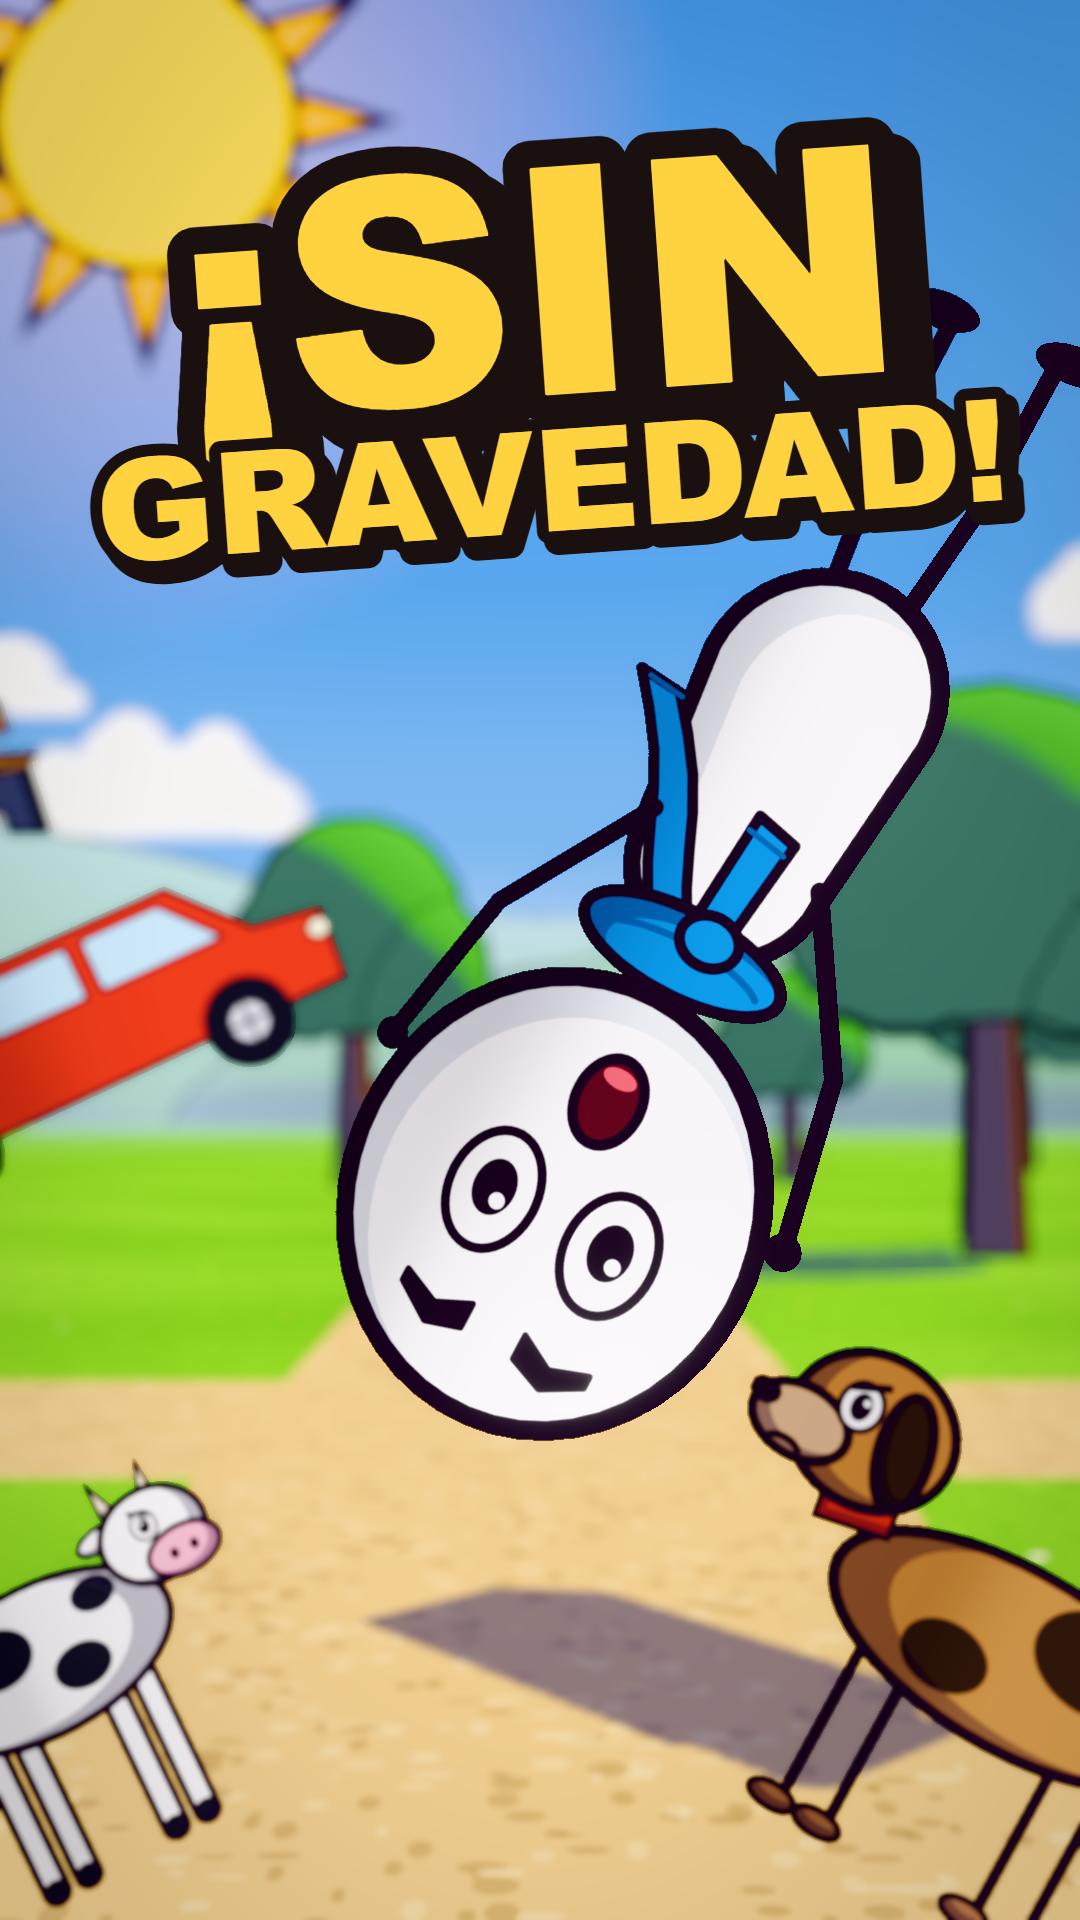
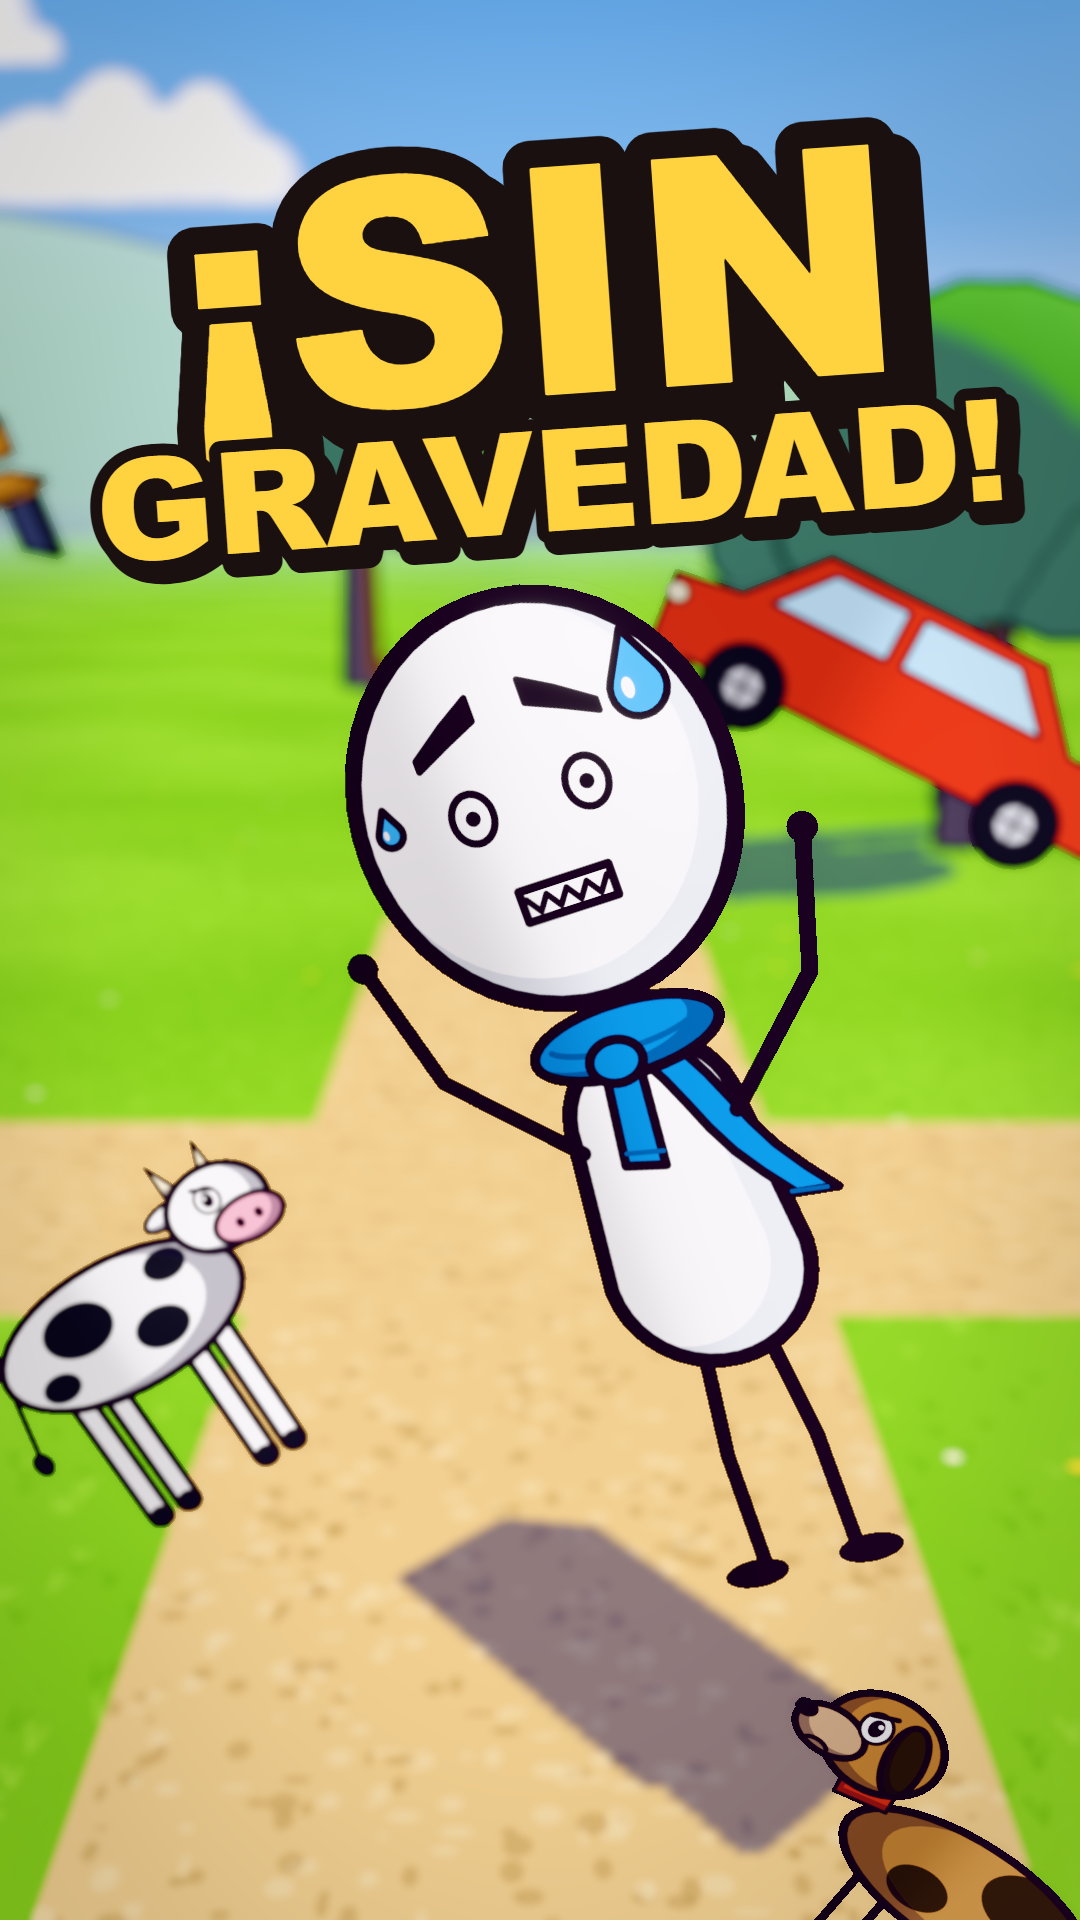
Portada de Gravedad rehecha (Sticky derecho, cara de susto legible)

diff --git a/shorts-sticky/src/videos/gravedad.ts b/shorts-sticky/src/videos/gravedad.ts
@@ -368,21 +368,24 @@ const dofAt = (_id: number, _f: number) => ({ cInf: 3 });
 /** portada: Sticky enorme de cabeza con cara de sorpresa, Toby, la vaca y un coche flotando, y el texto gigante */
 const PORTADA: Portada = {
   texto: ["¡SIN", "GRAVEDAD!"], textoH: ["¡SIN GRAVEDAD!"], col: "#ffd23f",
-  expr: "sorpresa", arm: "fly", set: "park", env: "day", flota: 1, blur: 14,
-  sticky: { head: [0, 1.2, 0], roll: Math.PI - 0.5 },
-  cam: { pos: [0, 1.3, 2.15], look: [0, 1.46, 0], fov: 52 },
-  camH: { pos: [0.1, 1.3, 1.95], look: [0.1, 1.42, 0], fov: 44 },
+  // Sticky casi derecho (20°), brazos arriba y cara de susto (gota de sudor), flotando alto: su sombra queda lejos abajo
+  expr: "susto", arm: "cheer", set: "park", env: "day", flota: 1, blur: 14,
+  sticky: { head: [0, 2.9, 0], roll: 0.35 },
+  cam: { pos: [0, 3.3, 2.3], look: [0, 2.72, 0], fov: 54 },
+  stickyH: { head: [0, 3.5, 0], roll: 0.35 },
+  camH: { pos: [0, 4.0, 2.25], look: [0, 3.32, 0], fov: 46 },
   cosas: [
-    { kind: "cow", o: { coat: "#ffffff", mood: "scared" }, x: -0.62, y: 0.1, z: -1.1, s: 0.5, roll: 0.45 },
-    { kind: "car", o: { body: "#d84a3a", wheel: 0 }, x: -1.0, y: 1.25, z: -2.6, s: 0.4, roll: 0.45 },
-    { kind: "dog", o: { ...TOBY, mood: "scared" }, x: 0.3, y: 0.62, z: 0.35, s: ESCALA.perro * 0.75, roll: -0.5, mirror: true },
+    { kind: "cow", o: { coat: "#ffffff", mood: "scared" }, x: -0.5, y: 1.65, z: -0.6, s: 0.5, roll: 0.5 },
+    { kind: "car", o: { body: "#d84a3a", wheel: 0 }, x: 0.8, y: 2.55, z: -2.4, s: 0.4, roll: -0.45, mirror: true },
+    { kind: "dog", o: { ...TOBY, mood: "scared" }, x: 0.4, y: 1.42, z: 0.3, s: ESCALA.perro * 0.75, roll: -0.55, mirror: true },
   ],
   cosasH: [
-    { kind: "cow", o: { coat: "#ffffff", mood: "scared" }, x: -1.45, y: 1.0, z: -1.2, s: 0.55, roll: 0.45 },
-    { kind: "car", o: { body: "#d84a3a", wheel: 0 }, x: 1.75, y: 1.0, z: -1.4, s: 0.48, roll: -0.4, mirror: true },
-    { kind: "dog", o: { ...TOBY, mood: "scared" }, x: 0.92, y: 0.68, z: 0.3, s: ESCALA.perro * 0.75, roll: -0.6, mirror: true },
+    { kind: "cow", o: { coat: "#ffffff", mood: "scared" }, x: -1.5, y: 2.55, z: -0.9, s: 0.55, roll: 0.45 },
+    { kind: "car", o: { body: "#d84a3a", wheel: 0 }, x: 1.75, y: 3.05, z: -1.6, s: 0.48, roll: -0.4, mirror: true },
+    { kind: "dog", o: { ...TOBY, mood: "scared" }, x: 0.95, y: 2.5, z: 0.4, s: ESCALA.perro * 0.75, roll: -0.6, mirror: true },
   ],
 };
+
 
 export const GRAVEDAD: Story = {
   voz: VOZ,

diff --git a/shorts-sticky/src/engine/portada.tsx b/shorts-sticky/src/engine/portada.tsx
@@ -20,6 +20,8 @@ export type Portada = {
   set: SetName; env?: Env; flota?: number;
   /** Sticky: centro de la CABEZA (m), giro (rad; Math.PI = de cabeza) y escala extra */
   sticky?: { head?: V3; roll?: number; s?: number };
+  /** Sticky en horizontal (si falta se usa `sticky`) */
+  stickyH?: { head?: V3; roll?: number; s?: number };
   /** otras cosas flotando (vaca, coche, Toby...) en vertical y en horizontal (si falta `cosasH` se usan `cosas`) */
   cosas?: Card[]; cosasH?: Card[];
   /** cámaras (por defecto, de frente a 3 m de la cabeza de Sticky) */
@@ -53,7 +55,7 @@ const Titulo: React.FC<{ lineas: string[]; col: string; W: number; H: number }> 
 /** convierte la portada de una historia en una Story de 1 cuadro (sirve para makeShort) */
 export const portadaStory = (P: Portada, formato: Formato): Story => {
   const hz = formato === "horizontal", W = hz ? 1920 : 1080, H = hz ? 1080 : 1920;
-  const st = P.sticky ?? {}, head = st.head ?? [0, 1.4, 0], roll = st.roll ?? Math.PI, s = ESCALA.sticky * (st.s ?? 1);
+  const st = (hz ? P.stickyH : undefined) ?? P.sticky ?? {}, head = st.head ?? [0, 1.4, 0], roll = st.roll ?? Math.PI, s = ESCALA.sticky * (st.s ?? 1);
   // la tarjeta gira sobre los pies: los ponemos donde haga falta para que la cabeza quede en `head`
   const hh = 1.106 * (s / ESCALA.sticky);
   const sti: Card = {
